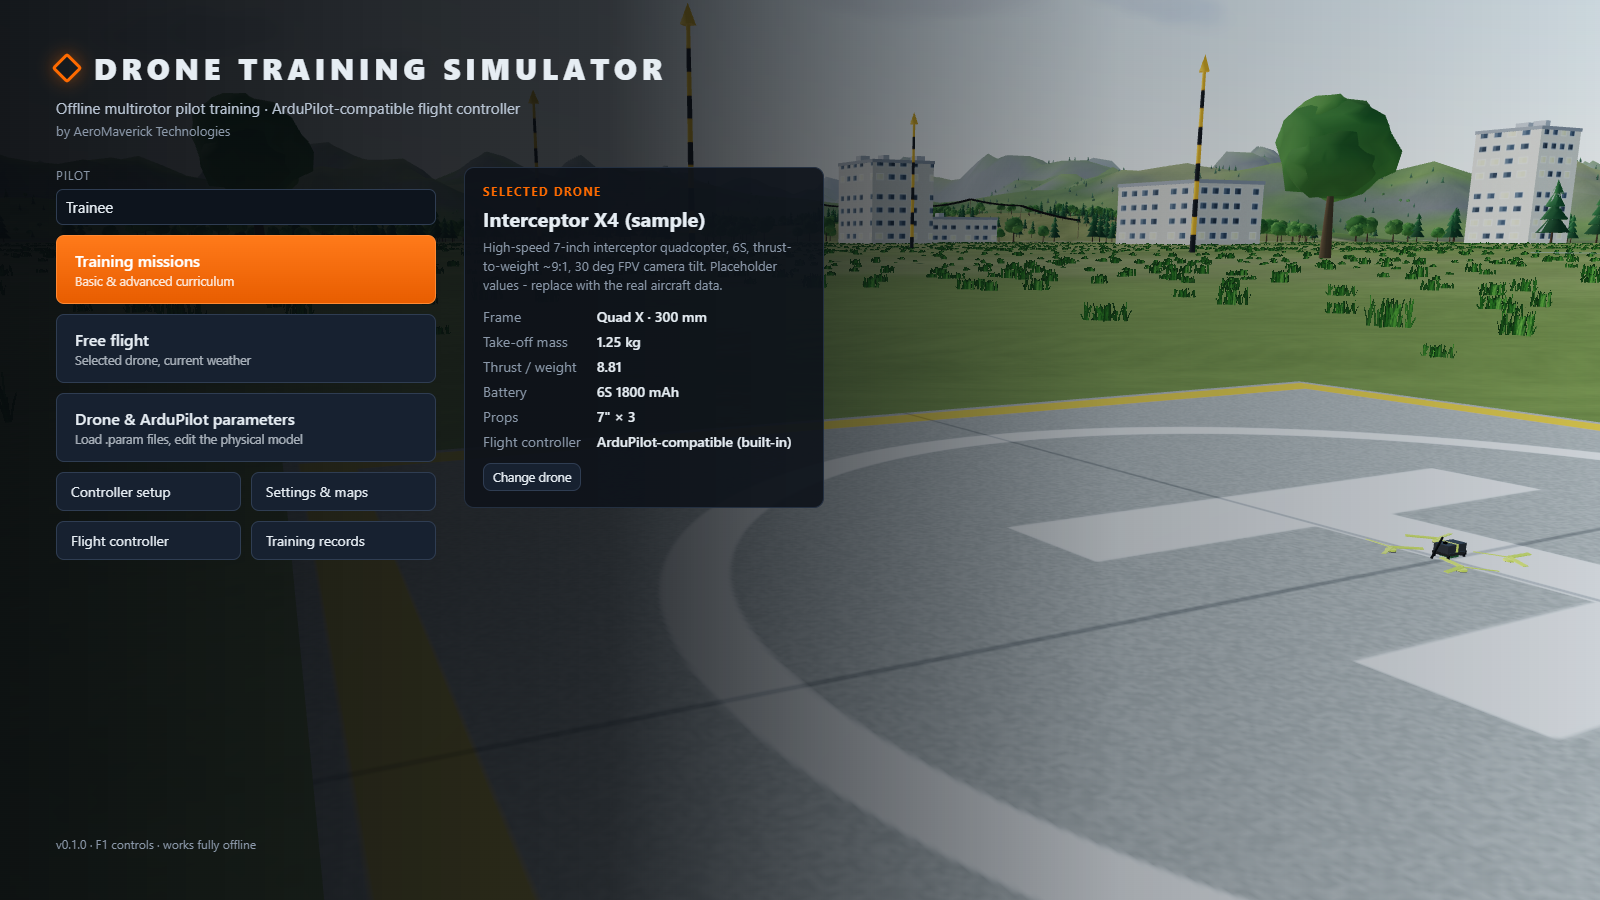
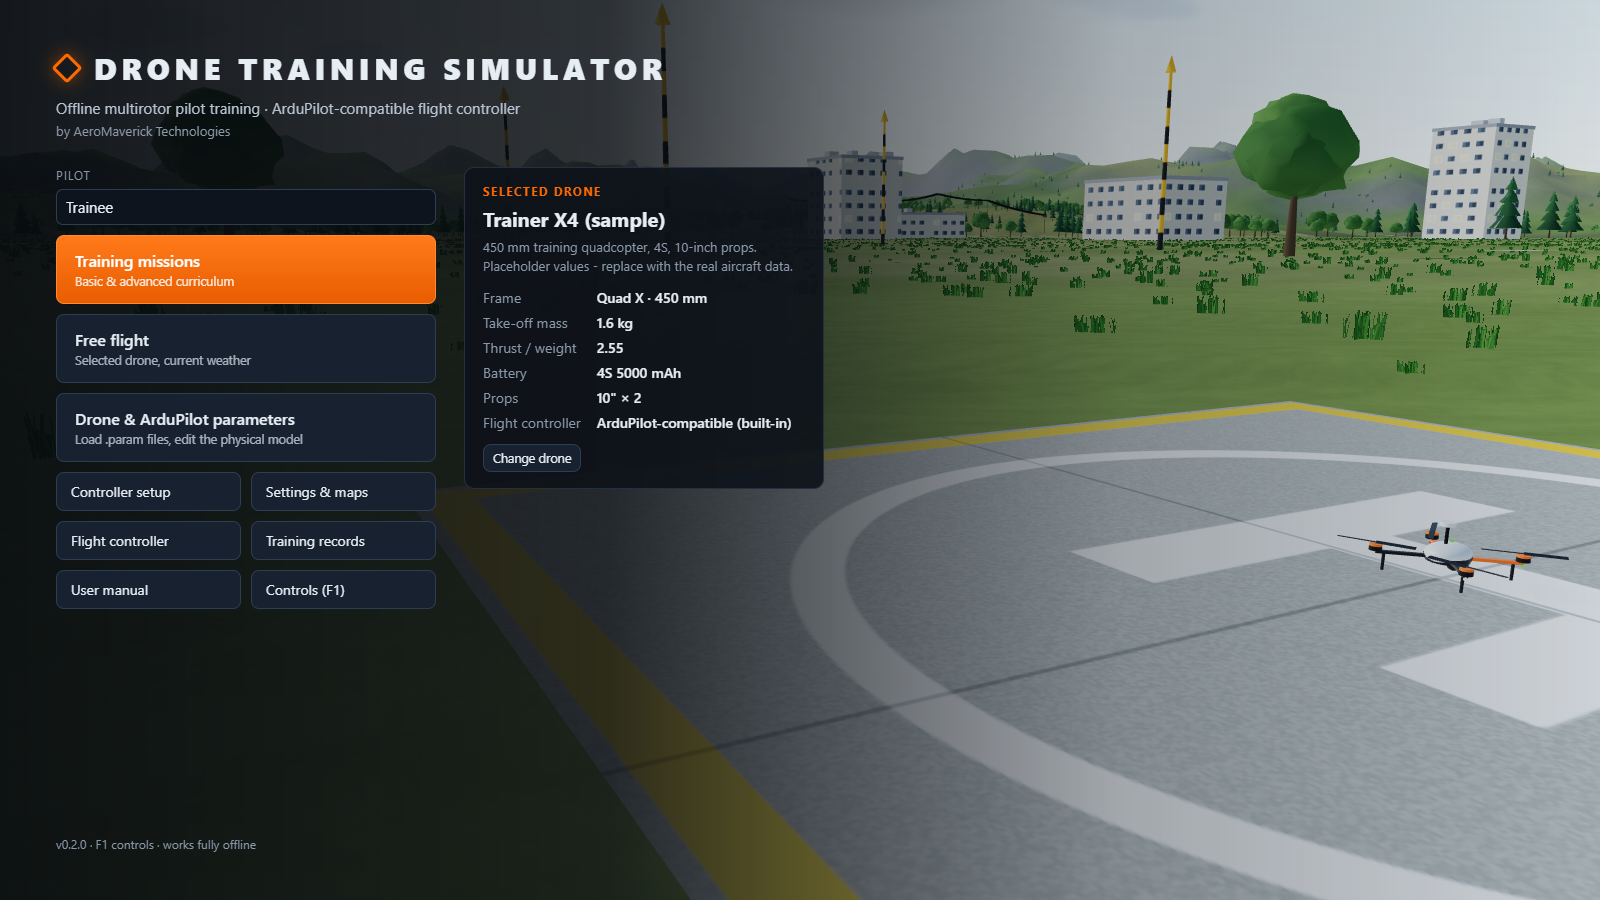
v0.2.0: real ArduPilot built in, add-your-drone wizard, real terrain, flight-log tools

diff --git a/README.md b/README.md
@@ -2,7 +2,7 @@
 
 **by AeroMaverick Technologies**
 
-Offline PC simulator for multirotor pilot training. Each drone flies with its own ArduPilot parameter file, either on the built-in ArduPilot-compatible flight controller or on the real ArduPilot firmware (SITL).
+Offline PC simulator for multirotor pilot training. Each drone flies with its own ArduPilot parameter file, either on the built-in ArduPilot-compatible flight controller or on the real ArduPilot firmware, which is included and starts with one click.
 
 ![FPV view with ArduPilot-style OSD](screenshots/fpv-gates.png)
 
@@ -14,15 +14,26 @@ Offline PC simulator for multirotor pilot training. Each drone flies with its ow
 2. Open the extracted folder and run **DroneTrainingSimulator.exe**.
 3. If Windows shows "Windows protected your PC", click **More info → Run anyway**. The app is not code-signed yet.
 
-**Requirements:** Windows 10 or 11 (64-bit), a graphics card with DirectX 11 / WebGL 2, about 300 MB of disk space. A gamepad or an RC transmitter in USB joystick mode is optional; the keyboard works too.
+**Requirements:** Windows 10 or 11 (64-bit), a graphics card with DirectX 11 / WebGL 2, 8 GB RAM recommended, about 300 MB of disk space. A gamepad or an RC transmitter in USB joystick mode is optional; the keyboard works too.
+
+The full user manual opens from **User manual** in the app's main menu.
 
 ## Features
 
-- **Flight physics:** 6-DOF model with motor spin-up lag, thrust curves, battery voltage sag, ground effect, vortex-ring state, rotor drag, and wind with gusts and turbulence. Landing-gear contact and collisions with trees, buildings and wires.
-- **ArduPilot flight controller:** a built-in ArduCopter-compatible controller that reads real `.param` files: rate/angle PIDs with input shaping, altitude and position control, flight modes (STABILIZE, ALT_HOLD, LOITER, POSHOLD, RTL, LAND, GUIDED and more) and failsafes.
-- **Real ArduPilot firmware:** connect ArduCopter SITL as the flight controller (lock-step at 1,200 Hz, MAVLink ground-station link).
-- **Your own drones:** load a drone's `.param` file and edit its physical model (mass, motors and propellers, battery, drag, camera).
-- **Training:** 12 missions from first hover to advanced drills (gate course, wind and gusts, GPS failure, low battery, motor failure), with scoring, debriefs and training records.
+- **Real ArduPilot firmware, built in:** **Flight controller → Start ArduPilot** runs the official ArduCopter firmware as the flight controller, with the drone's own parameter file. No Linux or WSL is needed. Mission Planner or QGroundControl can watch the flight at TCP `127.0.0.1:5762`.
+- **ArduPilot-compatible controller:** the built-in ArduCopter-compatible controller reads real `.param` files. It covers rate/angle PIDs with input shaping, altitude and position control, flight modes (STABILIZE, ALT_HOLD, LOITER, POSHOLD, RTL, LAND, GUIDED and more) and failsafes.
+- **Your own drones:** the "Add your drone" wizard builds a flyable model from the drone's `.param` file plus its mass, size, propellers and battery. It checks the thrust-to-weight ratio and the battery settings.
+- **Flight physics:** a 6-DOF model with:
+  - motor spin-up lag, thrust curves and battery voltage sag;
+  - ground effect, vortex-ring state and rotor drag;
+  - wind with gusts and turbulence;
+  - landing-gear contact and collisions with trees, buildings and wires.
+- **Real terrain:** load a GeoTIFF elevation model of your training area (SRTM, Copernicus, national LiDAR). ArduPilot starts at that location.
+- **Flight-log tools:** load a real ArduPilot flight log (`.bin`) to calibrate a drone's model. You can also replay the flight and compare the simulator with the real aircraft.
+- **Training:** 12 missions, from first hover to advanced drills (gate course, wind and gusts, GPS failure, low battery, motor failure).
+  - Scoring, debriefs and training records.
+  - An instructor panel injects failures and changes the weather.
+- **Radio:** gamepads and RC transmitters work as on the real aircraft. Flight modes and the arm, RTL and emergency-stop switches follow the drone's own parameters.
 - **Views:** chase camera, FPV with an ArduPilot-style OSD and analog video effects, line of sight from the pilot box, and a ground-station panel.
 - **Live tuning:** change PID gains in flight and see the effect in the tuning graph and the step-response test.
 
@@ -48,20 +59,21 @@ Gamepads and RC transmitters work as on the real aircraft; calibrate them under 
 
 | | |
 |---|---|
-| ![Main menu](screenshots/main-menu.png) | ![Chase view and ground-station panel](screenshots/chase-gcs.png) |
-| ![Real ArduPilot SITL as the flight controller](screenshots/sitl.png) | ![Tuning graph and step test](screenshots/tuning.png) |
-| ![ArduPilot parameters](screenshots/parameters.png) | ![Line-of-sight view](screenshots/line-of-sight.png) |
+| ![Main menu](screenshots/main-menu.png) | ![Real ArduPilot with one click](screenshots/flight-controller.png) |
+| ![Chase view and ground-station panel](screenshots/chase-gcs.png) | ![Real ArduPilot as the flight controller](screenshots/sitl.png) |
+| ![Tuning graph and step test](screenshots/tuning.png) | ![ArduPilot parameters](screenshots/parameters.png) |
+| ![Real terrain import](screenshots/settings-terrain.png) | ![Line-of-sight view](screenshots/line-of-sight.png) |
 
-## Using the real ArduPilot firmware (optional)
+## Flying on the real ArduPilot firmware
 
-Run ArduCopter SITL (on Linux or in WSL) with its JSON physics model pointed at this PC, for example:
+1. In the main menu, open **Flight controller** and click **Start ArduPilot**. The firmware starts with the selected drone's parameters.
+2. Start a flight. ArduPilot needs about 40 s to get a GPS lock; the app shows a banner until the drone is ready to arm.
+3. The first time, Windows Firewall may ask about **ArduCopter.exe**. Either answer works: it only talks to the simulator on this PC.
 
-```
-arducopter -w --model JSON:<this PC's IP> --defaults Tools/autotest/default_params/copter.parm,<your_drone>.param
-```
-
-Then in the app choose **Flight controller → Use ArduPilot SITL** and start a flight. Wait for "EKF3 IMU0 is using GPS" in the ground-station messages before flying.
+To use your own ArduPilot SITL build instead (on Linux, in WSL or on another PC), go to **Flight controller → Advanced: external SITL**.
 
 ---
 
 © 2026 AeroMaverick Technologies. All rights reserved. The source code is not public.
+
+The download includes ArduPilot (ArduCopter SITL, GPLv3), which runs as a separate program. Its licence and source-code links are in `resources/app/vendor/ardupilot-sitl/NOTICE.txt`. ArduPilot's source code is at https://github.com/ArduPilot/ardupilot.
